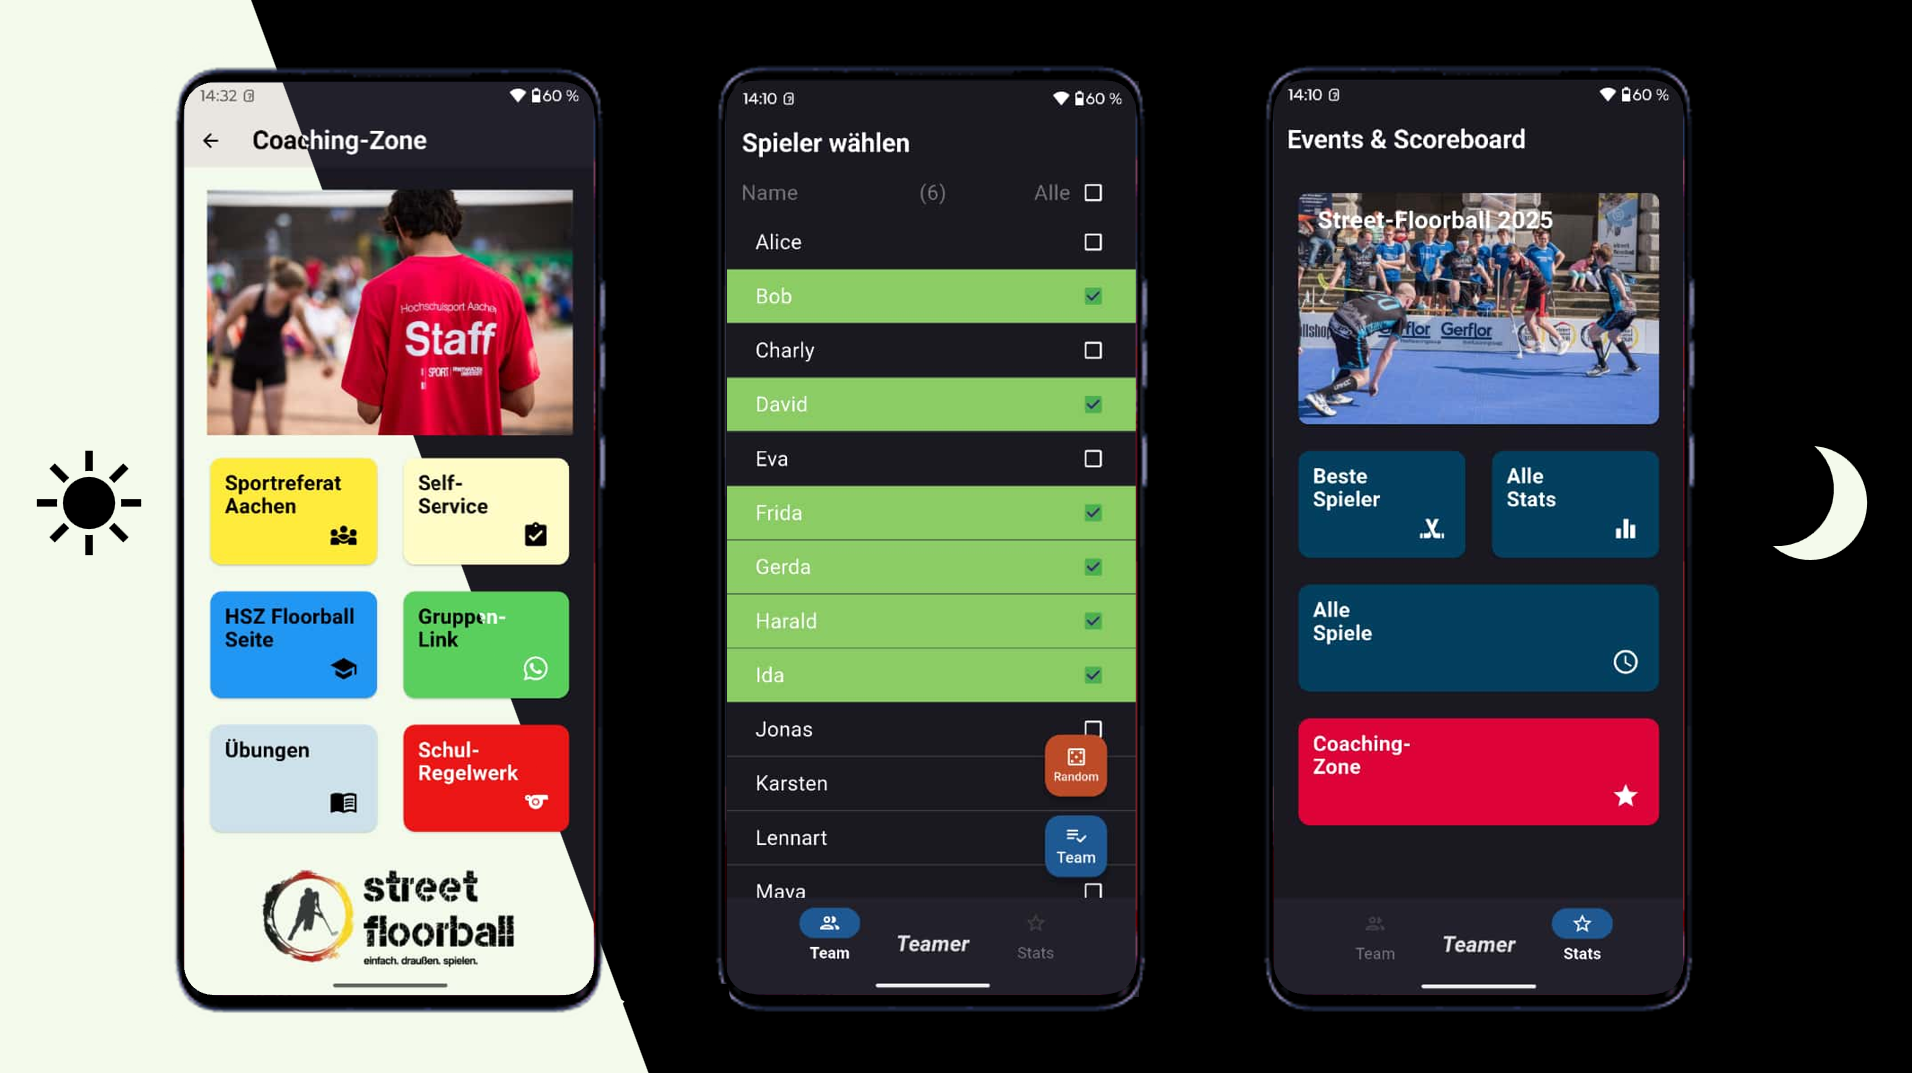
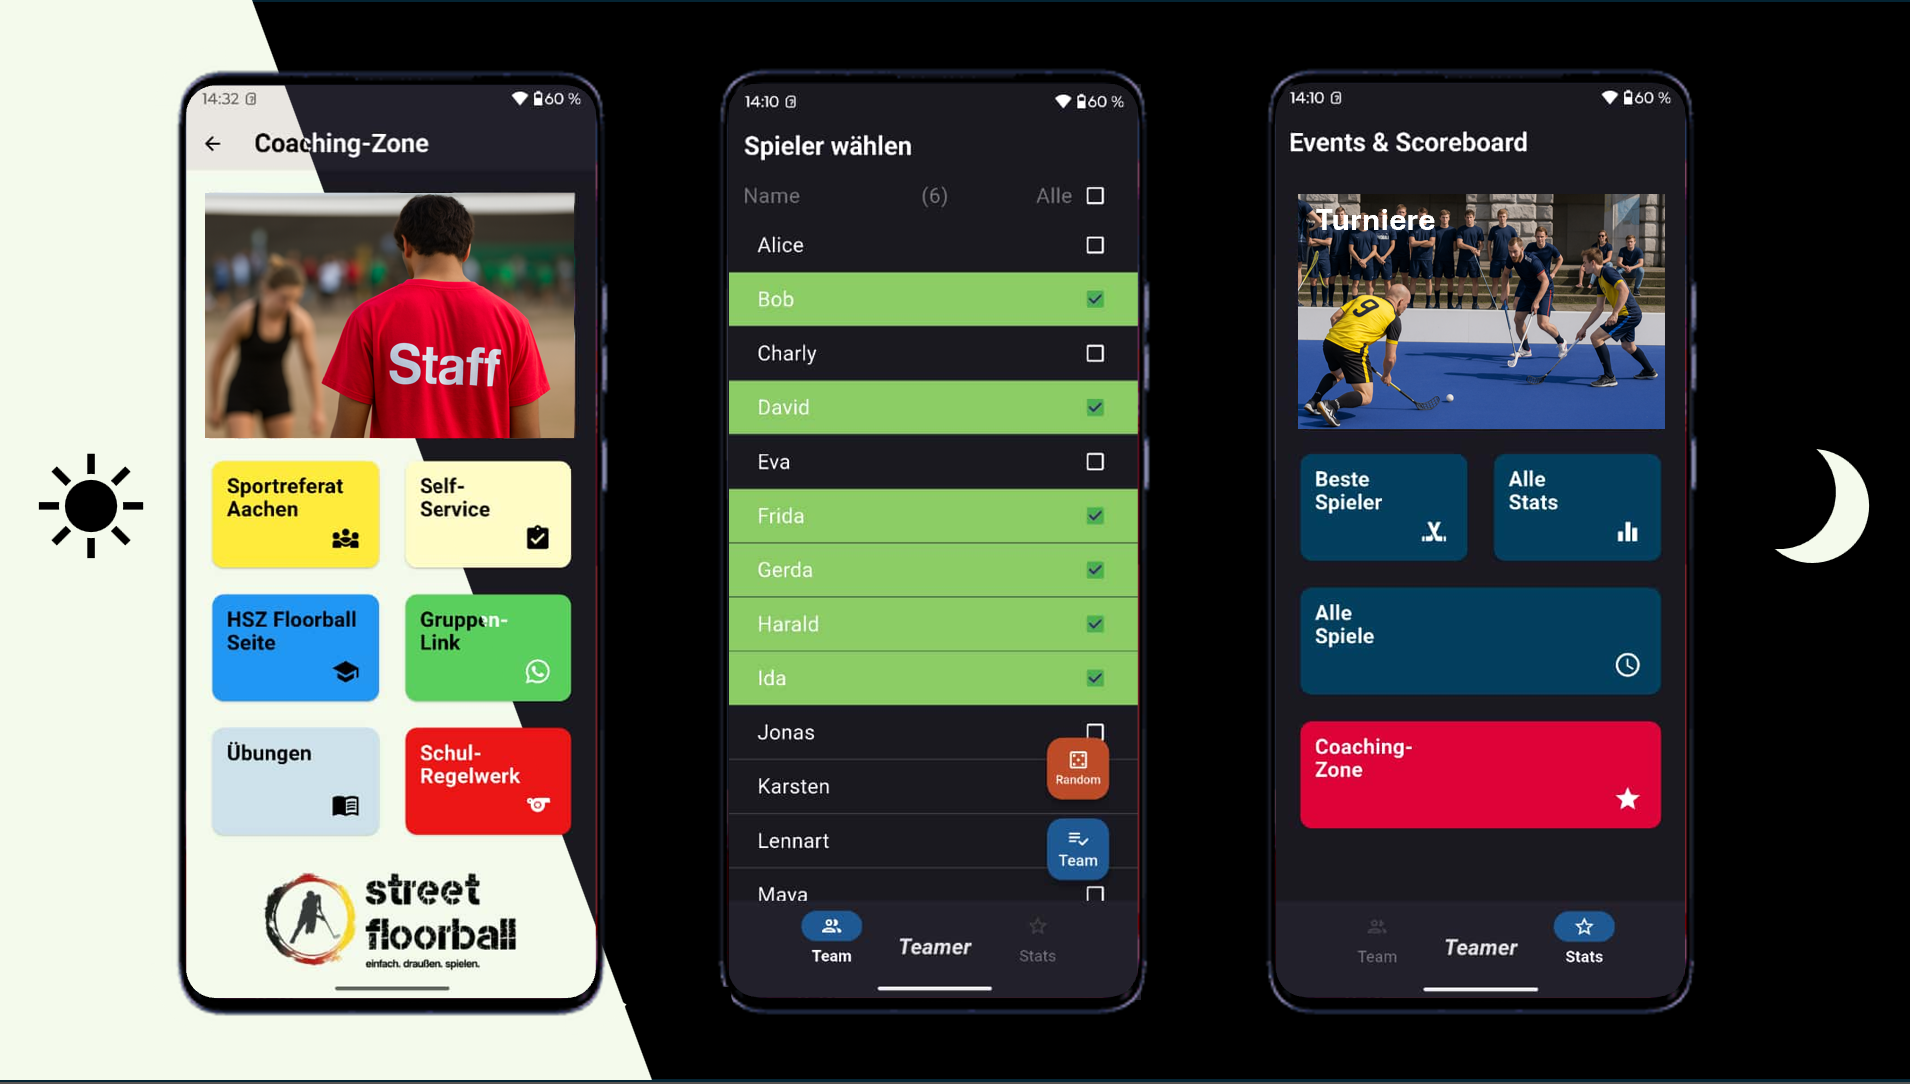
changed pictures

diff --git a/lib/pages/coaching_zone_page.dart b/lib/pages/coaching_zone_page.dart
@@ -27,7 +27,7 @@ class _CoachingZonePageState extends State<CoachingZonePage> {
           child: Column(
             crossAxisAlignment: CrossAxisAlignment.stretch,
             children: [
-              Image(image: AssetImage('assets/pictures/coaching.jpeg')),
+              Image(image: AssetImage('assets/pictures/coaching.png')),
               //padding: const EdgeInsets.only(top: 20.0),
               SizedBox(height: 20),
               SizedBox(

diff --git a/README.md b/README.md
@@ -35,7 +35,7 @@ So können Teams mit bis zu **20 Personen** optimal eingeteilt werden. 👥👥
 
 ---
 
-# English:
+# English
 
 _A team assignment app for school and club gaming activities_
 
